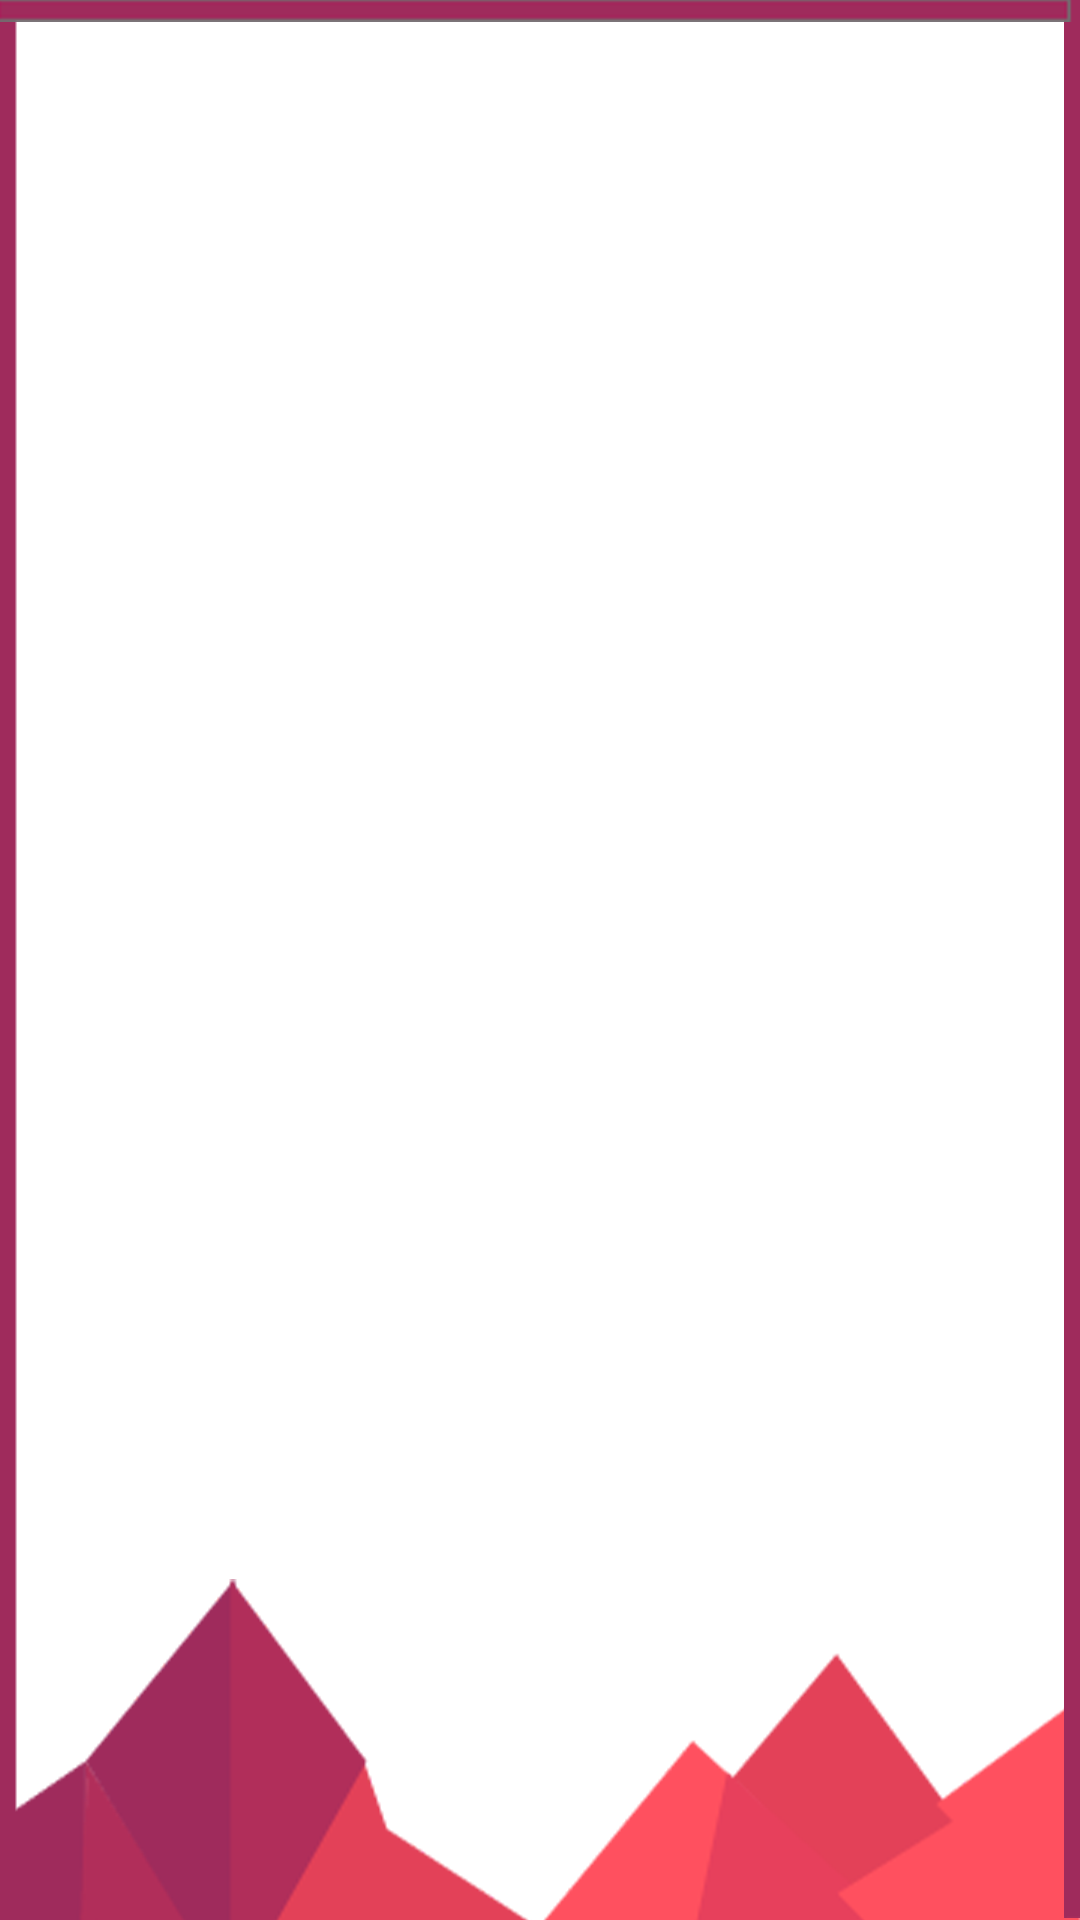
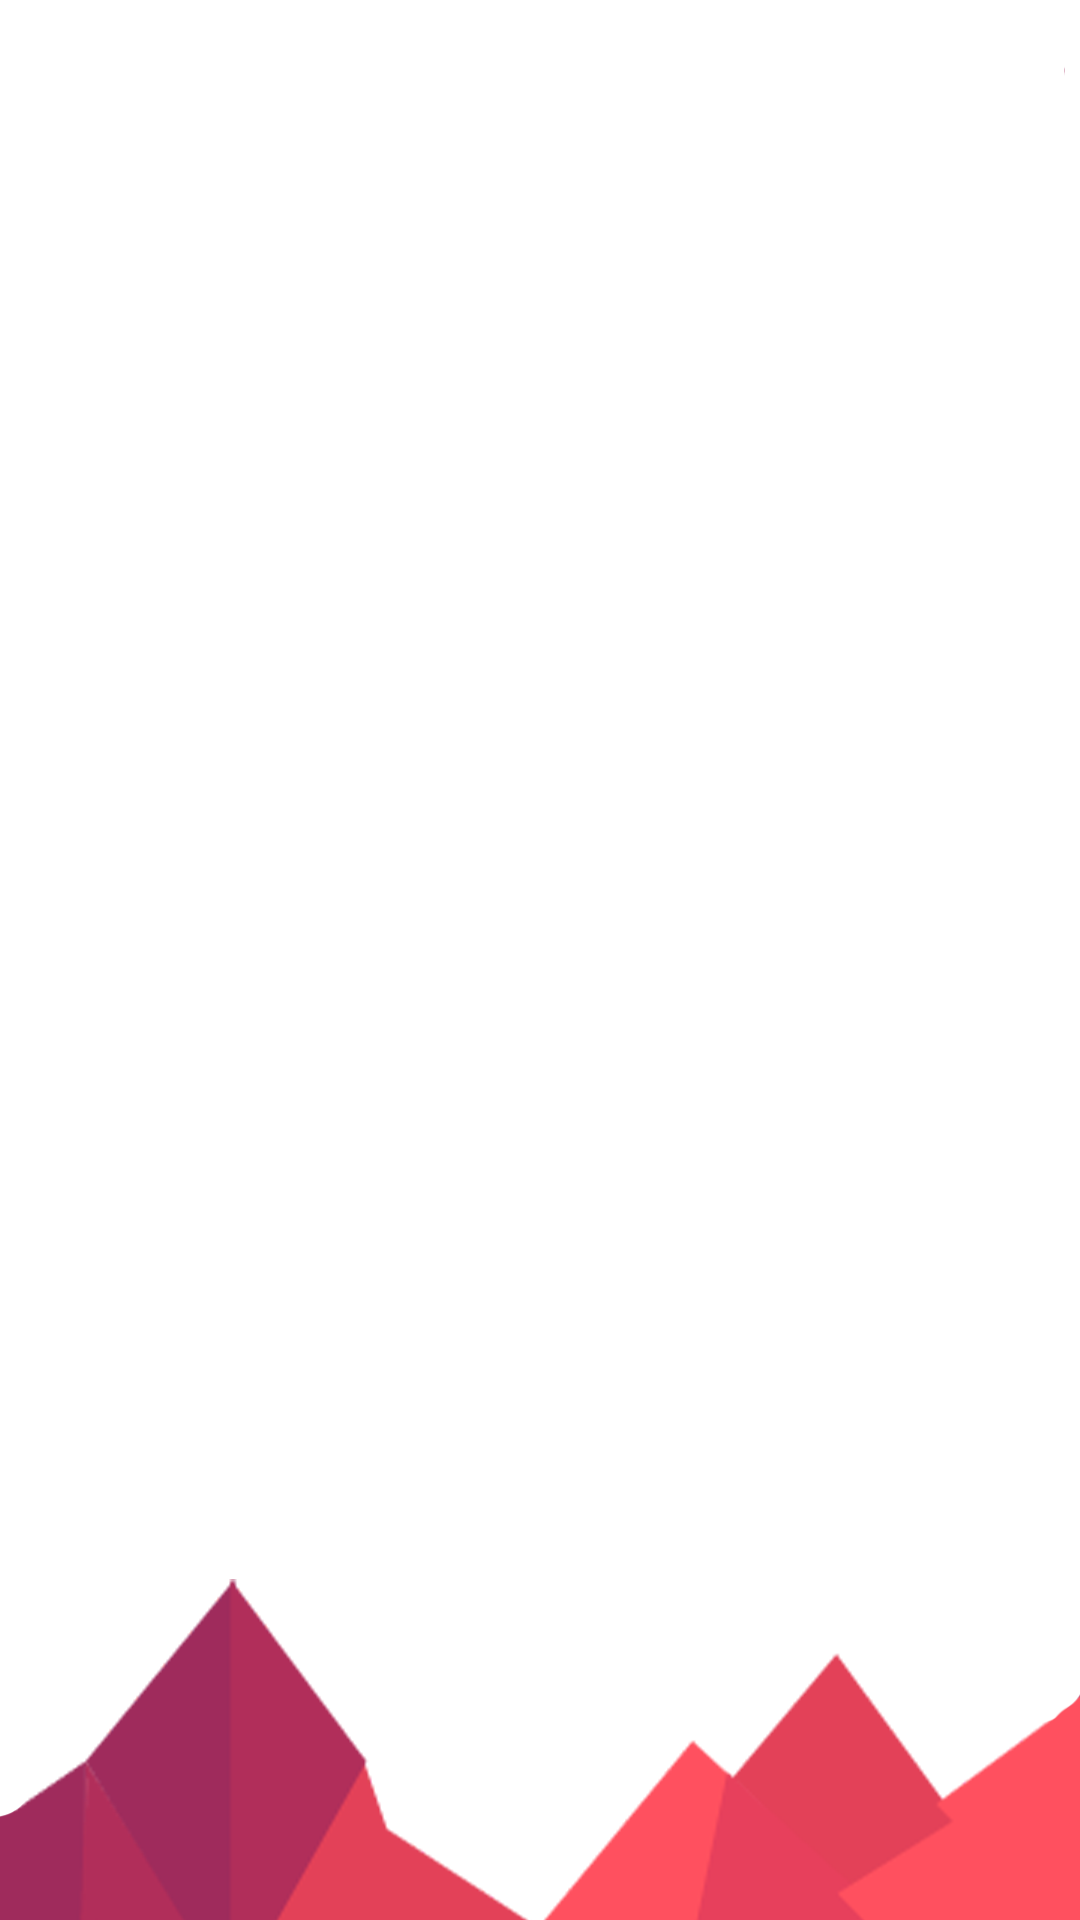
change login background and add colors

Changed region(s): [[0.0, 0.0, 1.0, 1.0]]

diff --git a/lib/utils/universal_variables.dart b/lib/utils/universal_variables.dart
@@ -9,6 +9,11 @@ class UniversalVariables {
   static final Color lightBlueColor = Color(0xff0077d7);
   static final Color separatorColor = Color(0xff272c35);
 
+  static final Color darkPurple = Color(0xff9f2b5c);
+  static final Color lightPurple = Color(0xffb12e5a);
+  static final Color darkPink = Color(0xffe34158);
+  static final Color lightPink = Color(0xffff505f);
+
   static final Color gradientColorStart = Color(0xff00b6f3);
   static final Color gradientColorEnd = Color(0xff0184dc);
 
